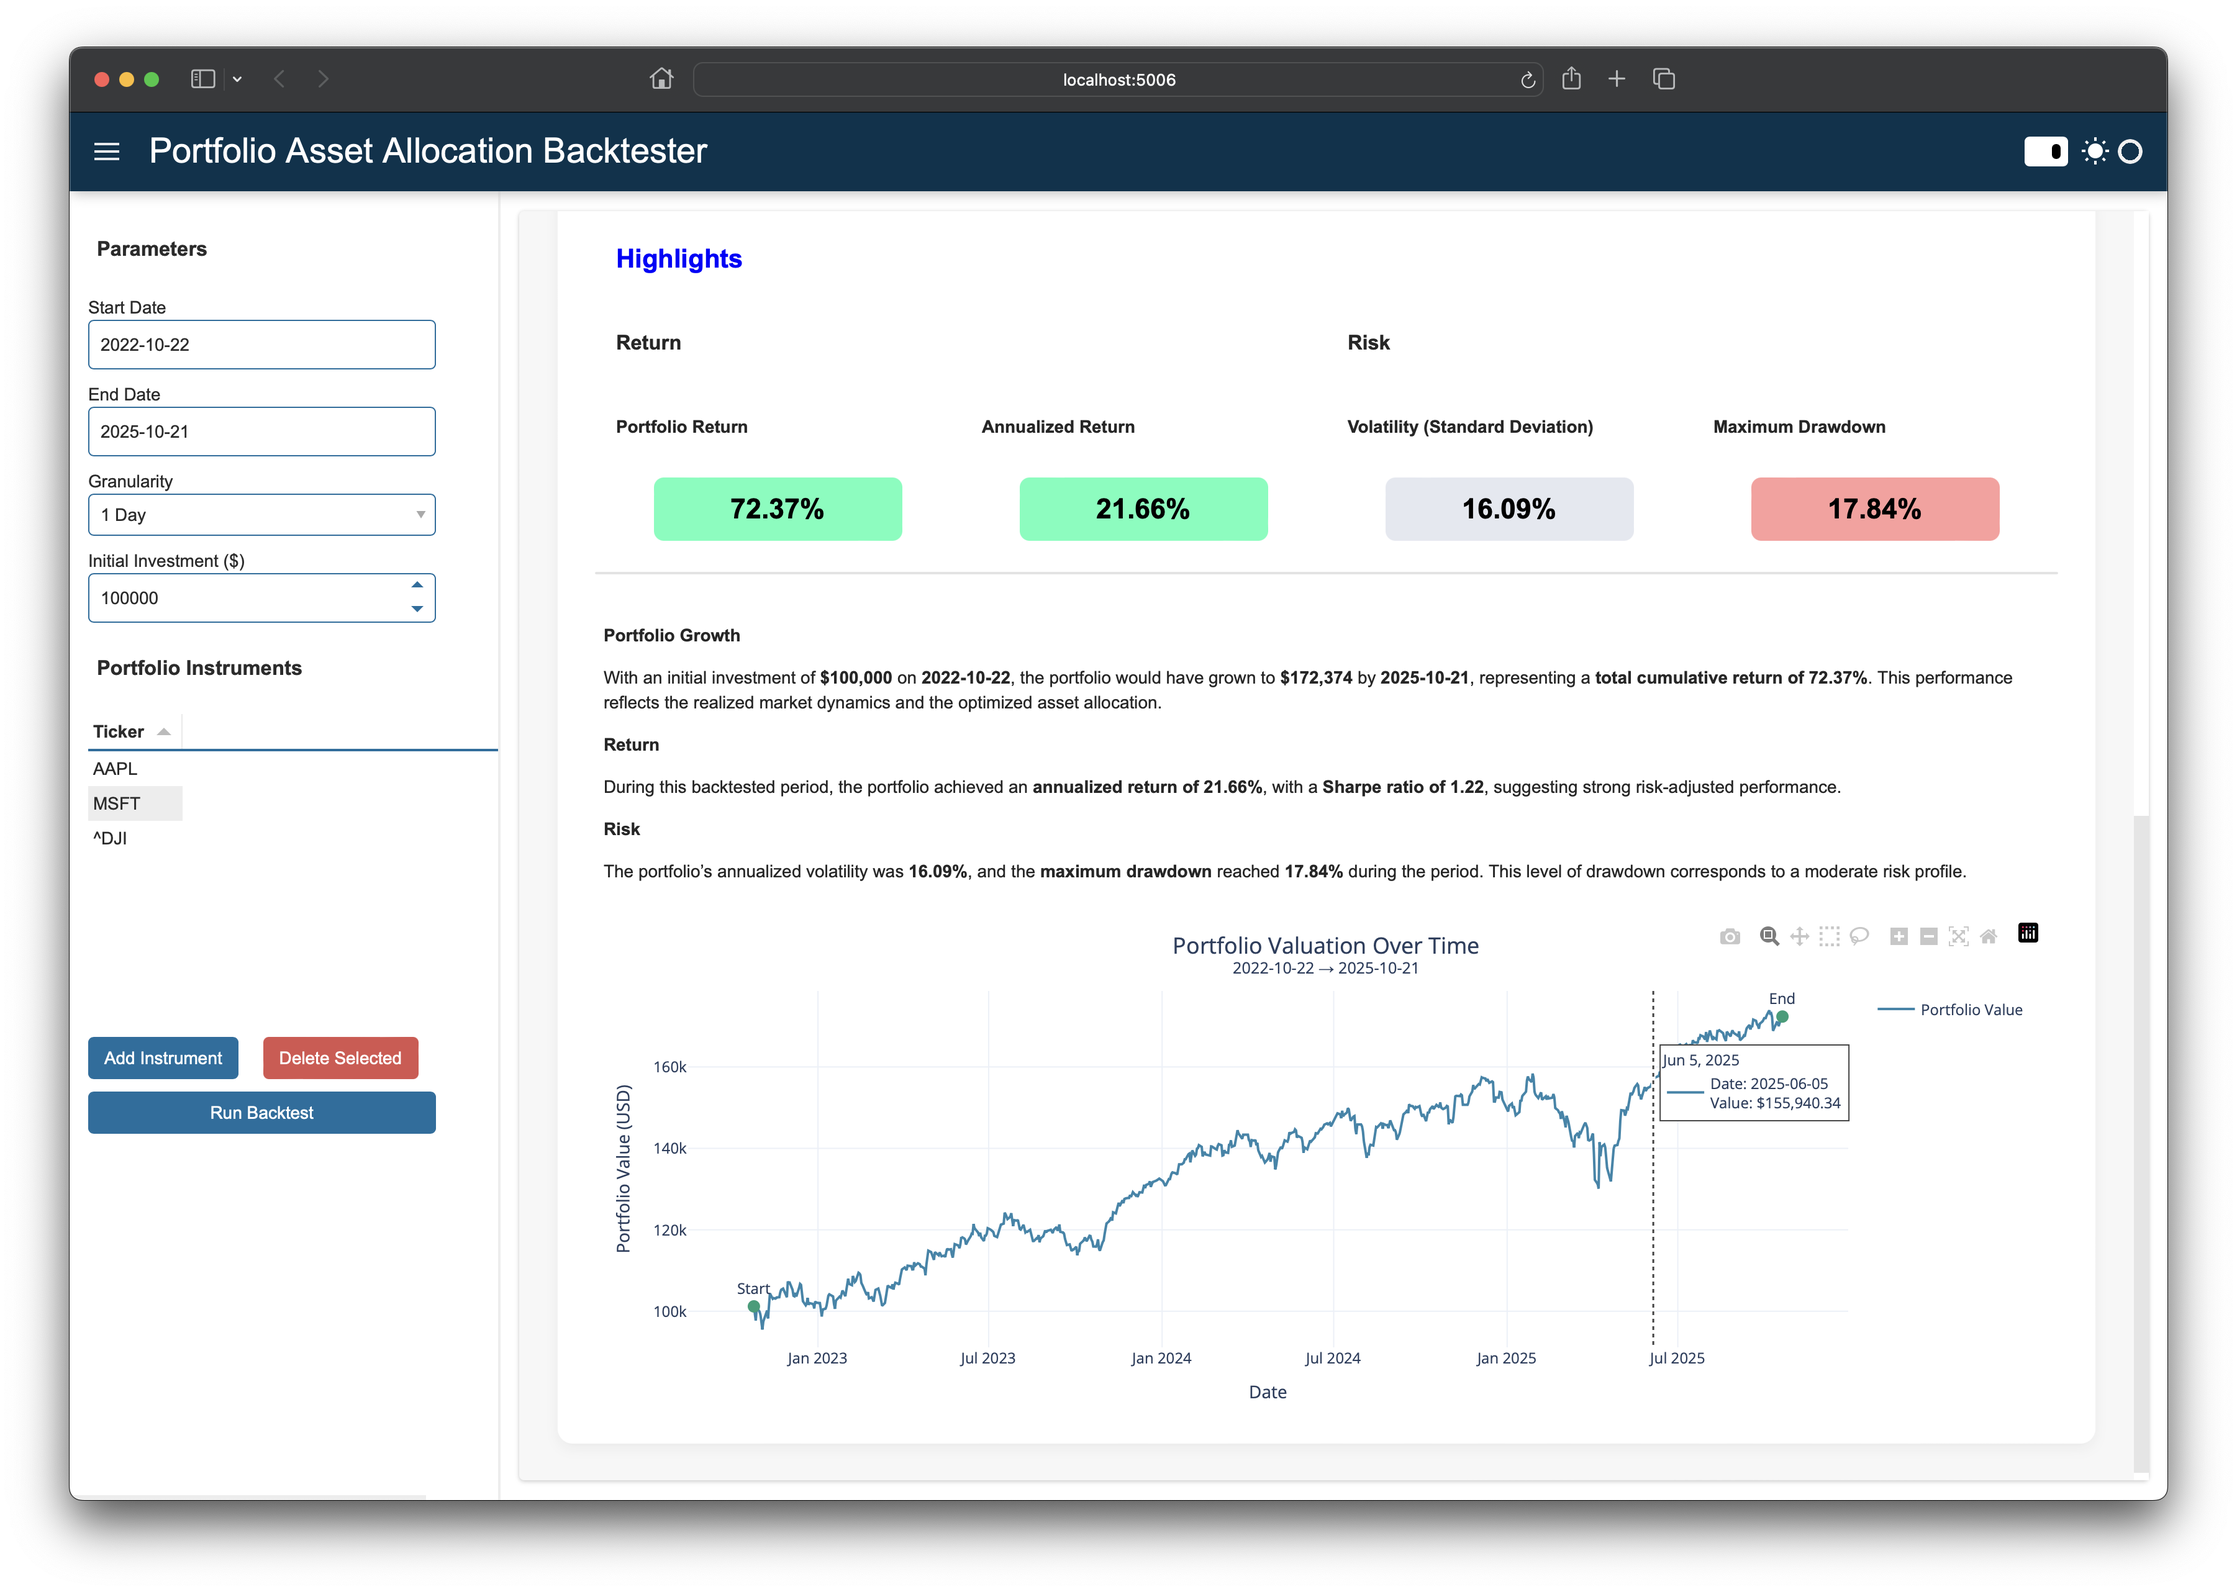
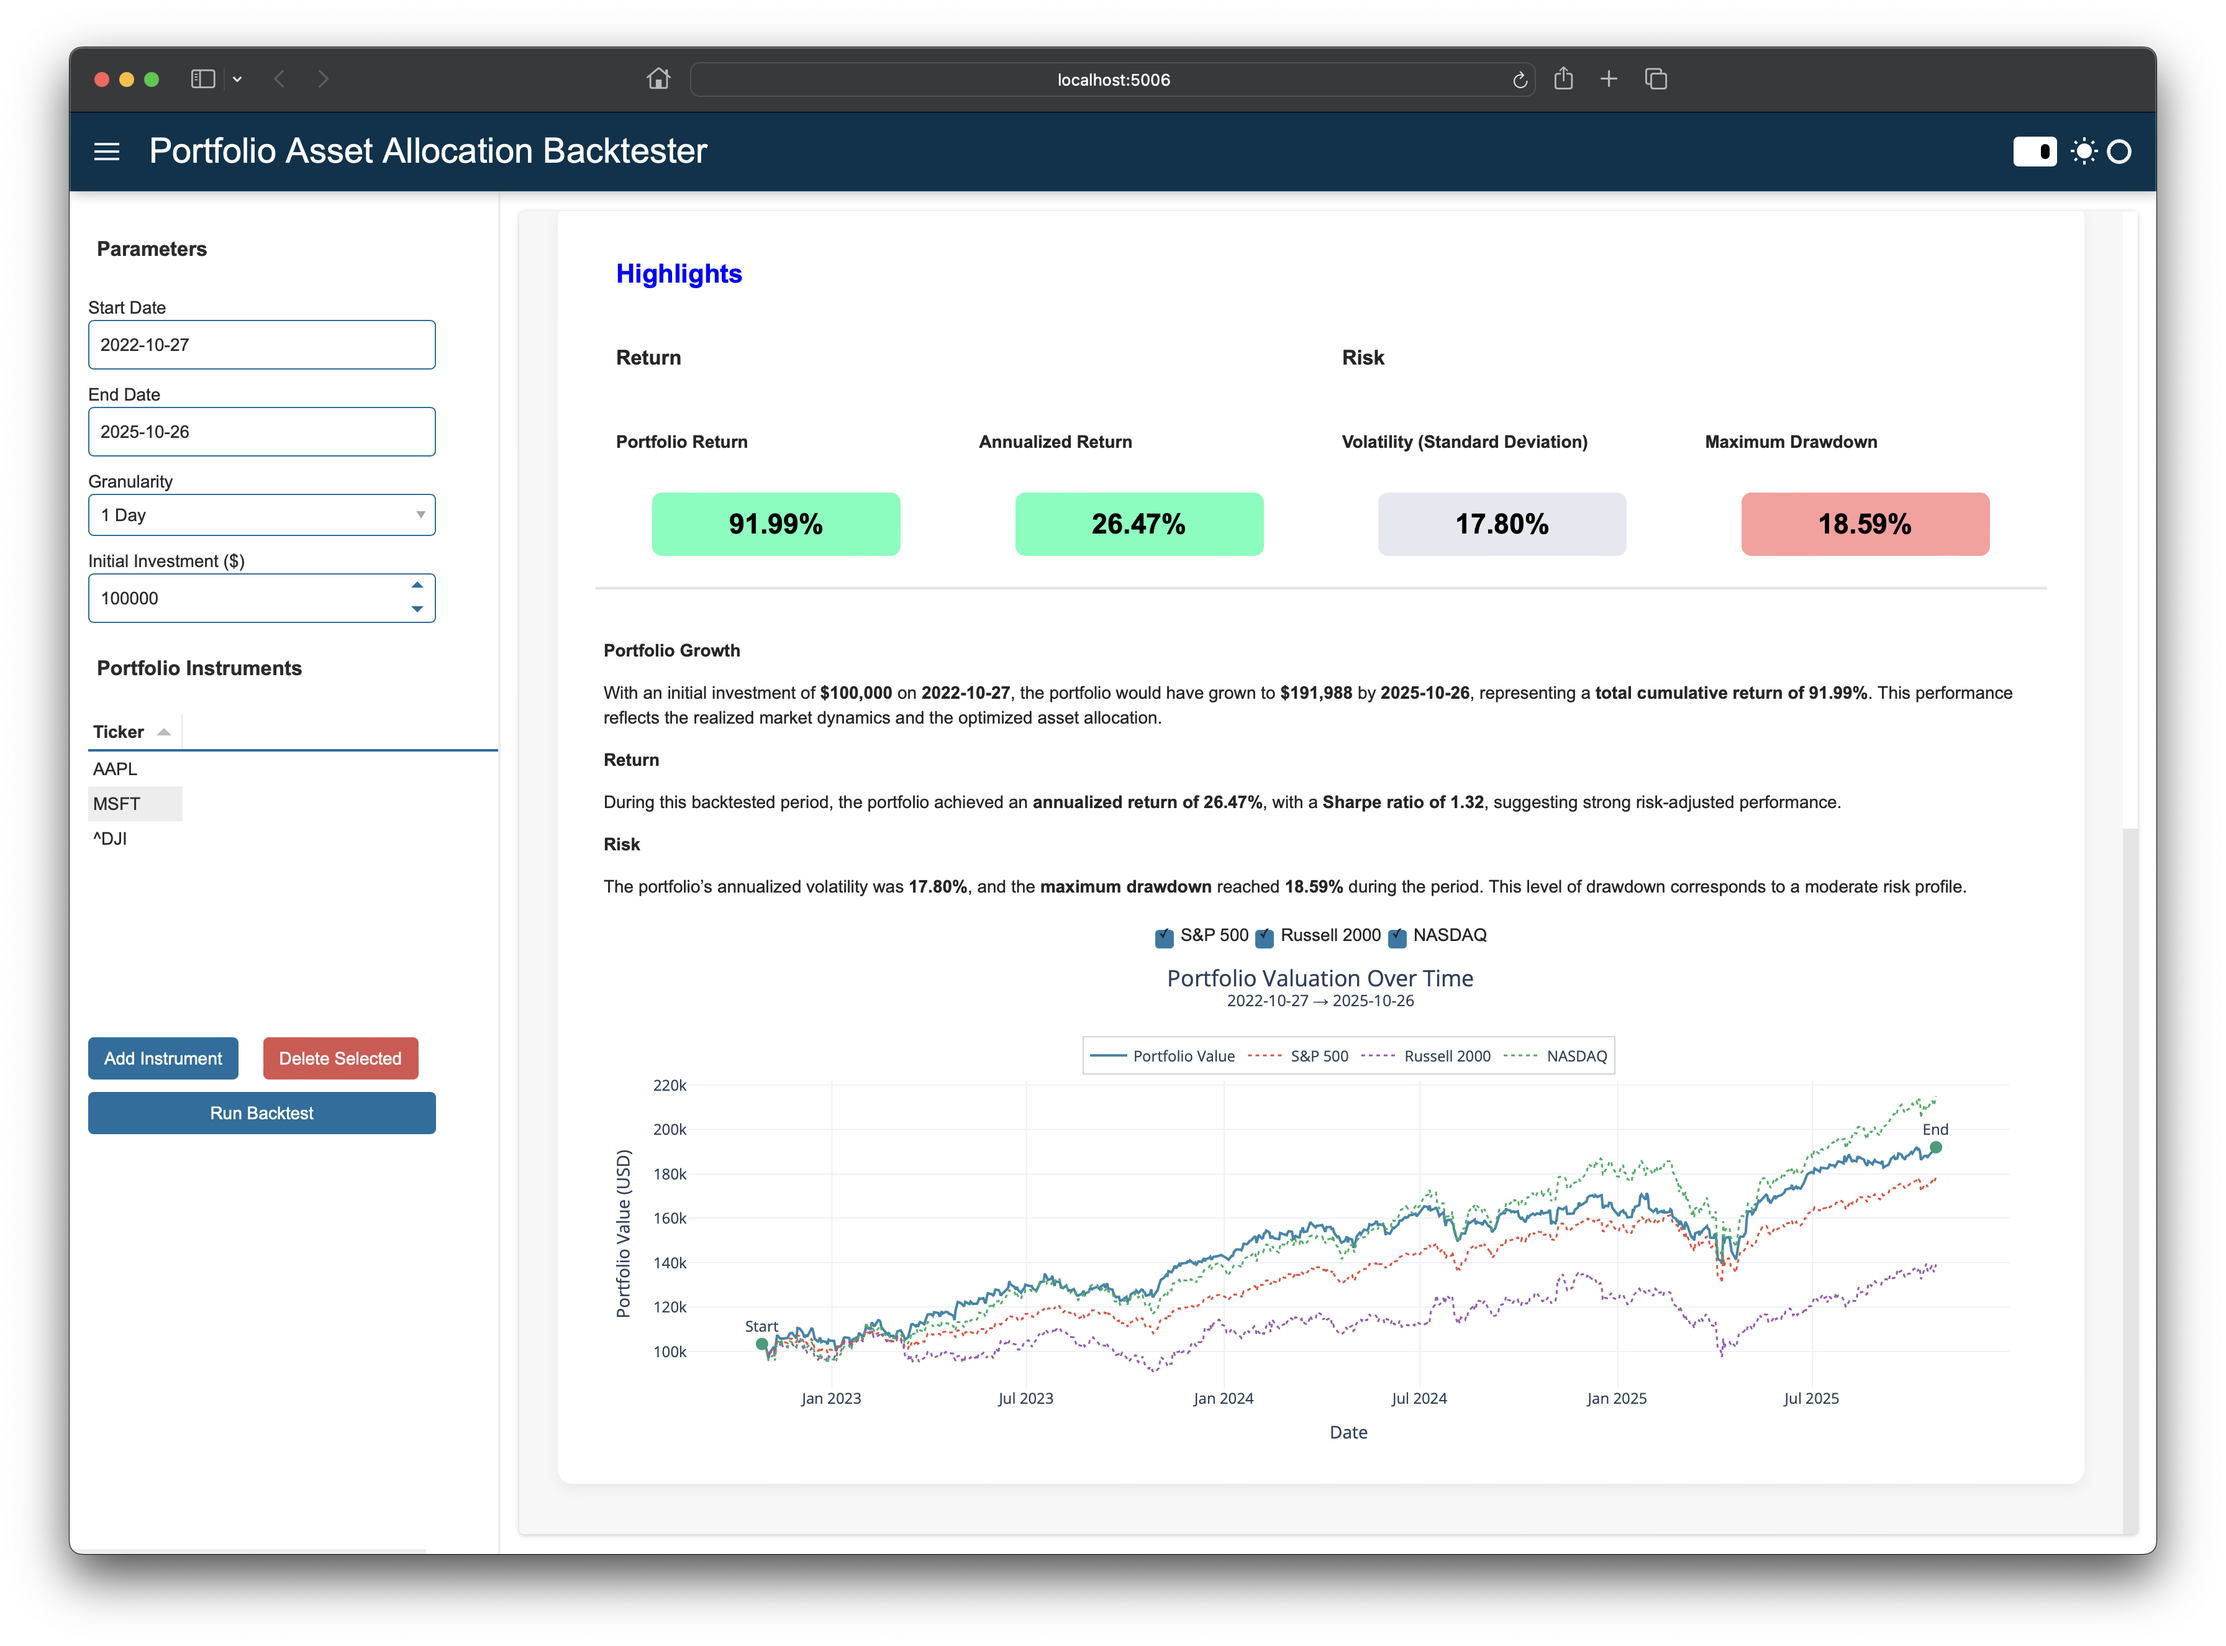
Refactoring changes and implemented benchmark on highlight view to compare sample portfolio against sp500, russell 2000, nasdaq

diff --git a/portfolio_asset_allocation_backtester/view/highlights_view.py b/portfolio_asset_allocation_backtester/view/highlights_view.py
@@ -21,6 +21,20 @@ class HighlightsView:
             "plotly", "mathjax", raw_css=[self.css], sizing_mode="stretch_width"
         )
 
+        self.benchmark_selector = pn.widgets.CheckBoxGroup(
+            name="Benchmarks",
+            value=["S&P 500"],
+            options=["S&P 500", "Russell 2000", "NASDAQ"],
+            inline=True,
+            align="center",
+            styles={
+                "display": "flex",
+                "justify-content": "center",
+                "gap": "15px",
+                "margin": "0 auto",
+            },
+        )
+
         self.valuation_plot = pn.pane.Plotly(
             self._empty_portfolio_valuation_plot(),
             sizing_mode="stretch_width",
@@ -90,6 +104,7 @@ class HighlightsView:
             ),
             pn.layout.Divider(),
             self.interpretation_text,
+            self.benchmark_selector,
             self.valuation_plot,
             sizing_mode="stretch_width",
             align="center",
@@ -188,7 +203,9 @@ class HighlightsView:
 
             # Generate portolio valuation plot
             valuation_fig = self.portfolio_valuation_plotly(
-                self.model.portfolio_stats["portfolio_value"],
+                portfolio_value_series=self.model.portfolio_stats["portfolio_value"],
+                benchmark_df=self.model.portfolio_stats["benchmark_value"],
+                selected_benchmarks=self.benchmark_selector.value,
                 start_date_str=self.model.portfolio_stats["start_date"],
                 end_date_str=self.model.portfolio_stats["end_date"],
                 initial_investment=initial_investment,
@@ -205,13 +222,15 @@ class HighlightsView:
     def portfolio_valuation_plotly(
         self,
         portfolio_value_series: pd.Series,
+        benchmark_df: pd.DataFrame,
+        selected_benchmarks: list,
         start_date_str: str,
         end_date_str: str,
         initial_investment: int = 100_000,
     ) -> go.Figure:
+        """Generate portfolio valuation plot with optional benchmark overlays."""
 
         portfolio_valuation = portfolio_value_series.astype(float) * initial_investment
-
         fig = go.Figure()
 
         fig.add_trace(
@@ -224,6 +243,28 @@ class HighlightsView:
                 hovertemplate="Date: %{x|%Y-%m-%d}<br>Value: $%{y:,.2f}<extra></extra>",
             )
         )
+
+        benchmark_map = {"S&P 500": "^GSPC", "Russell 2000": "^RUT", "NASDAQ": "^IXIC"}
+        benchmark_colors = {
+            "S&P 500": "#E74C3C",
+            "Russell 2000": "#9B59B6",
+            "NASDAQ": "#27AE60",
+        }
+
+        for name in selected_benchmarks:
+            ticker = benchmark_map[name]
+            if ticker in benchmark_df.columns:
+                benchmark_val = benchmark_df[ticker].astype(float) * initial_investment
+                fig.add_trace(
+                    go.Scatter(
+                        x=benchmark_val.index,
+                        y=benchmark_val.values,
+                        mode="lines",
+                        name=name,
+                        line=dict(color=benchmark_colors[name], width=1.5, dash="dot"),
+                        hovertemplate="Date: %{x|%Y-%m-%d}<br>Value: $%{y:,.2f}<extra></extra>",
+                    )
+                )
 
         fig.add_trace(
             go.Scatter(
@@ -241,14 +282,26 @@ class HighlightsView:
             title=dict(
                 text=f"Portfolio Valuation Over Time<br><sup>{start_date_str} → {end_date_str}</sup>",
                 x=0.5,
+                y=0.94,
                 font=dict(size=18),
             ),
             xaxis_title="Date",
             yaxis_title="Portfolio Value (USD)",
             template="plotly_white",
-            height=400,
-            margin=dict(l=40, r=20, t=60, b=40),
+            height=440,
+            margin=dict(l=40, r=20, t=100, b=40),
             hovermode="x unified",
+            legend=dict(
+                orientation="h",
+                yanchor="bottom",
+                y=1.02,
+                xanchor="center",
+                x=0.5,
+                bgcolor="rgba(255,255,255,0.85)",
+                bordercolor="LightGray",
+                borderwidth=1,
+                font=dict(size=12),
+            ),
         )
 
         return fig

diff --git a/portfolio_asset_allocation_backtester/model/model.py b/portfolio_asset_allocation_backtester/model/model.py
@@ -16,7 +16,12 @@ class Model:
         self.instrument_list = None
         self.instrument_df = pd.DataFrame(columns=["Ticker"])
         self.prices_df = pd.DataFrame()
+
+        self.benchmark_prices_df = pd.DataFrame()
+
         self.closing_prices_df = pd.DataFrame()
+        self.benchmark_closing_prices_df = pd.DataFrame()
+        self.benchmark_tickers: List[str] = ["^GSPC", "^RUT", "^IXIC"]
 
         self.markow_frontier = None
         self.markowitz_plot_data = None
@@ -78,6 +83,18 @@ class Model:
             self.__yfinance_ticker_info = yfinance_ticker_info(ticker_list)
             self.prices_df = yf_fetcher.get_raw_ohlc_data()
             self.closing_prices_df = yf_fetcher.get_price_data(price_type="Close")
+
+            # Benchmark prices of SP500, Russel, Nasdaq
+            yf_benchmark_fetcher = YFinanceFetcher(
+                start=start_date_str,
+                end=end_date_str,
+                tickers=self.benchmark_tickers,
+                interval=interval,
+            )
+            self.benchmark_prices_df = yf_benchmark_fetcher.get_raw_ohlc_data()
+            self.benchmark_closing_prices_df = yf_benchmark_fetcher.get_price_data(
+                price_type="Close"
+            )
         except Exception as e:
             raise Exception(
                 f"Model :: run_backtest :: YFinanceFetcher: ran into the following error: {e}"
@@ -111,9 +128,11 @@ class Model:
         weights = np.array(self.get_optimal_weights)
 
         daily_returns = self.closing_prices_df.pct_change().dropna()
+        daily_benchmark_returns = self.benchmark_closing_prices_df.pct_change().dropna()
 
         portfolio_returns = (daily_returns * weights).sum(axis=1)
 
+        benchmark_portfolio_value = (1 + daily_benchmark_returns).cumprod()
         portfolio_value = (1 + portfolio_returns).cumprod()
 
         trading_days = 252
@@ -135,6 +154,7 @@ class Model:
         self.portfolio_stats = {
             "daily_returns": portfolio_returns,
             "portfolio_value": portfolio_value,
+            "benchmark_value": benchmark_portfolio_value,
             "annualized_return": annualized_return,
             "annualized_volatility": annualized_volatility,
             "max_drawdown": max_drawdown,

diff --git a/portfolio_asset_allocation_backtester/controller/controller.py b/portfolio_asset_allocation_backtester/controller/controller.py
@@ -39,6 +39,31 @@ class Controller:
         self.view.initial_amount.param.watch(self.update_initial_amount, "value")
         self.view.weight_type_toggle.param.watch(self.on_weight_toggle, "value")
 
+        self.view.highlights_view.benchmark_selector.param.watch(
+            self.on_benchmark_toggle, "value"
+        )
+
+    def on_benchmark_toggle(self, event: Event):
+        """Update valuation plot when benchmark selection changes."""
+        try:
+            portfolio_series = self.model.portfolio_stats["portfolio_value"]
+            benchmark_df = self.model.portfolio_stats["benchmark_value"]
+            start = self.model.portfolio_stats["start_date"]
+            end = self.model.portfolio_stats["end_date"]
+
+            fig = self.view.highlights_view.portfolio_valuation_plotly(
+                portfolio_series,
+                benchmark_df,
+                selected_benchmarks=event.new,
+                start_date_str=start,
+                end_date_str=end,
+            )
+
+            self.view.highlights_view.valuation_plot.object = fig
+
+        except Exception as e:
+            print(f"Controller :: Benchmark toggle update failed — {e}")
+
     def add_default_instrument(self, ticker: str) -> None:
         self.model.add_instrument(ticker=ticker)
         self.view.instrument_table_widget.refresh_table(
@@ -133,12 +158,16 @@ class Controller:
                         lambda: setattr(
                             self.view.detailed_analytics_view.performance_plot,
                             "object",
-                            self.view.loading_figure(text=f"Exception: {e}"),
+                            self.view.detailed_analytics_view.loading_figure(
+                                text=f"Exception: {e}"
+                            ),
                         )
                     )
                 else:
                     self.view.detailed_analytics_view.performance_plot.object = (
-                        self.view.loading_figure(text=f"Exception: {e}")
+                        self.view.detailed_analytics_view.loading_figure(
+                            text=f"Exception: {e}"
+                        )
                     )
 
         # Launch thread
